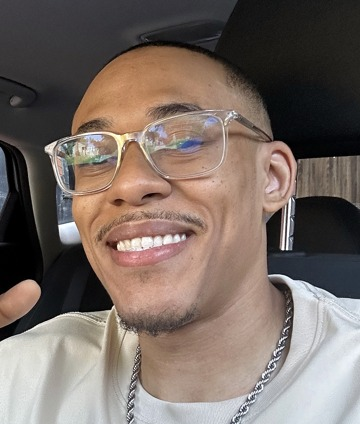
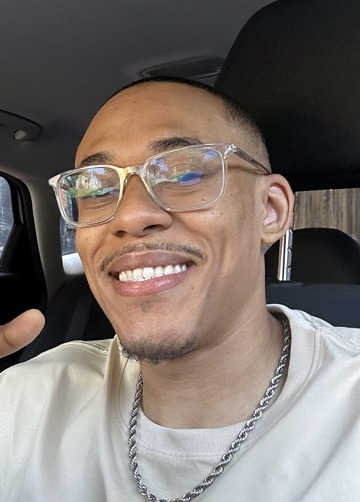
Founder strip: zoom the circle out further
Wider crop (more headroom + chest), object-position 34%. Face sits smaller in
the circle with room around it.

Claude-Session: https://claude.ai/code/session_017AdY6DNoeTH8aSgMPKoweq

diff --git a/index.html b/index.html
@@ -107,7 +107,7 @@
   /* founder strip (R13 §3) — first-screen introduction; hidden until the real photo loads */
   .founder-strip { background: var(--ground); border-bottom: 1px solid var(--hairline); padding: 36px 24px; }
   .fs-inner { display: flex; align-items: center; gap: 26px; max-width: 860px; margin: 0 auto; }
-  .fs-photo { width: 120px; height: 120px; border-radius: 50%; object-fit: cover; object-position: 50% 28%; flex-shrink: 0; border: 1px solid var(--hairline); }
+  .fs-photo { width: 120px; height: 120px; border-radius: 50%; object-fit: cover; object-position: 50% 34%; flex-shrink: 0; border: 1px solid var(--hairline); }
   .fs-copy { font-size: 15px; line-height: 1.65; color: var(--muted); margin: 0; }
   .fs-copy b { color: var(--text); }
   .fs-link { color: var(--blue); text-decoration: none; font-weight: 600; white-space: nowrap; }
